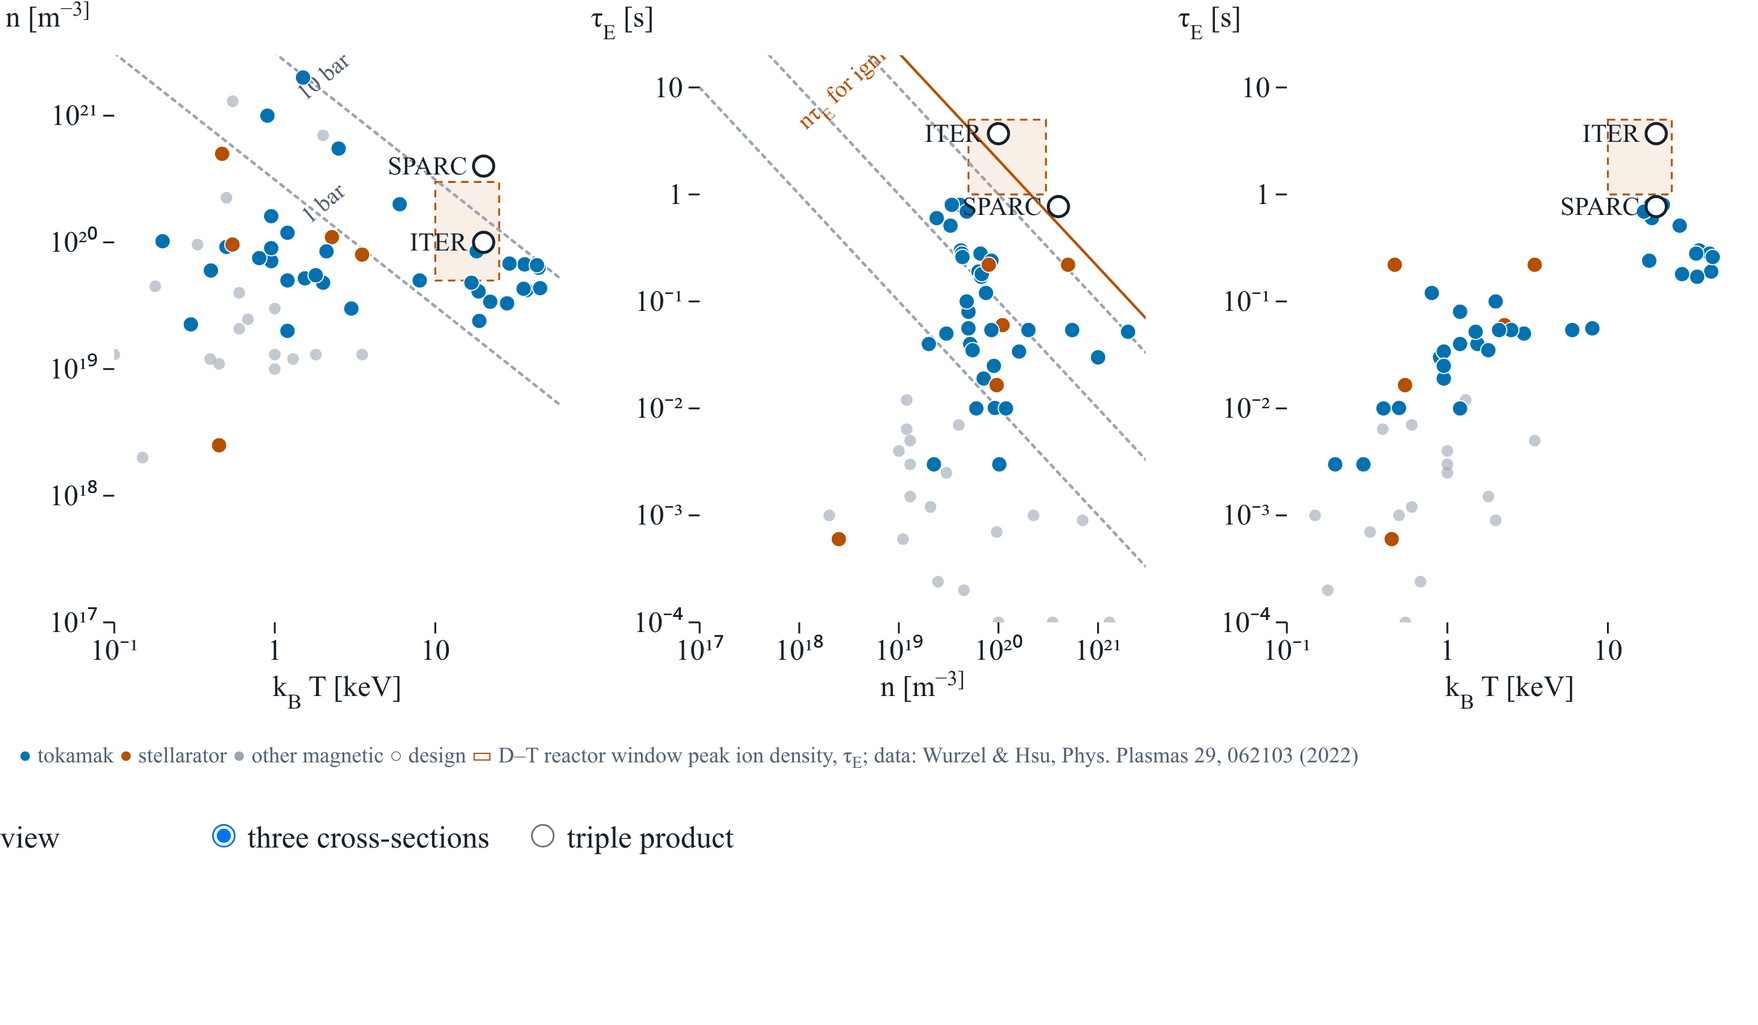
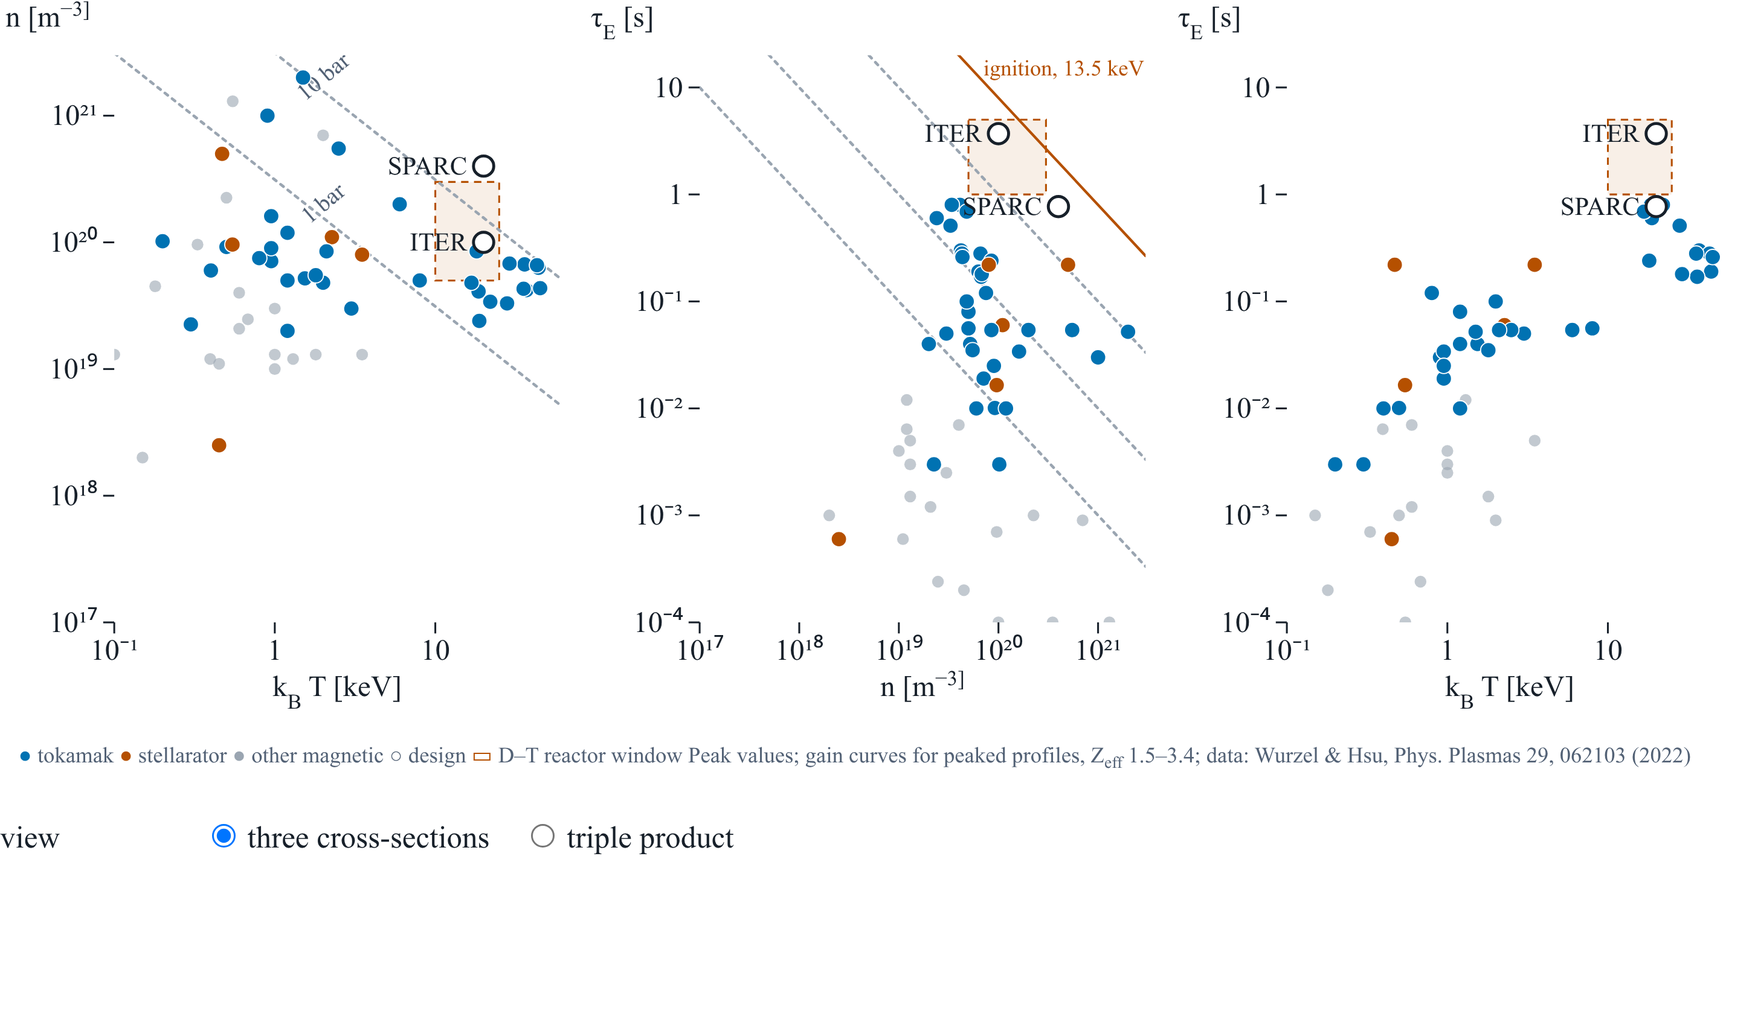
Decks 02 and 04 after Lecture 4; machine widget in peak values
Lecture 4 (3 November) derived the reaction rate on the board and called the
section 2.20 derivation pages too complicated; the deck keeps reactivity,
summary and solar core, and drops the eleven derivation and animation pages.
Deck 04 drops the four pages the lecture never showed (engineering gain,
Q = 10 power flow, what is optimised, quasineutrality and dilution).

The machine widget plotted Wurzel & Hsu peak values against flat-profile
gain curves, which put the 1991 JET and 1998 JT-60U records above Q = 1.
Its curves now follow their Eq. (45) in peak values (peaked T, broad n,
Z_eff 1.5-3.4): every record lies below Q = 1, ITER and SPARC between Q = 10
and ignition. peak_triple_product is checked against the JS model, the flat
0-D balance and the closed-form profile factors.

diff --git a/notebooks/fusion.js b/notebooks/fusion.js
@@ -109,6 +109,28 @@ export function tripleProduct(rx, t, q = Infinity, zeff = 0) {
   return net > 0 ? 12 * t * t * KEV / net : Infinity;
 }
 
+// Wurzel & Hsu (2022) Eqs. (38)-(40): profile factors for n, T ~ (1 - x^2)^nu; same
+// midpoint rule in s = x^2 as ch04_power_balance.profile_factors.
+export function profileFactors(rx, t0, nuN = 0.2, nuT = 3, points = 400) {
+  let sum = 0;
+  for (let i = 0; i < points; i++) {
+    const s = (i + 0.5) / points, ts = t0 * (1 - s) ** nuT;
+    if (ts >= 0.2) sum += (1 - s) ** (2 * nuN) * reactivity(rx, "DT", ts);
+  }
+  return {kappa: 1 / (1 + nuN + nuT), F: sum / points / reactivity(rx, "DT", t0), B: 2 / (4 * nuN + nuT + 2)};
+}
+
+// Wurzel & Hsu (2022) Eq. (45): n_i0 T_i0 tau_E for gain q in peak values, with the
+// profiles and impurities of their magnetic-confinement contours.
+export function peakTripleProduct(rx, t0, q = Infinity,
+    {zeff = 1.5, zbar = 1.2, etaAbs = 0.9, nuN = 0.2, nuT = 3} = {}) {
+  const lam = profileFactors(rx, t0, nuN, nuT);
+  const gain = Number.isFinite(q) ? etaAbs * E_FUS / q : 0;
+  const net = lam.F * reactivity(rx, "DT", t0) * (E_ALPHA + gain) / 4 * KEV
+    - lam.B * C_B * zeff * zbar * zbar * Math.sqrt(t0);
+  return net > 0 ? 1.5 * lam.kappa * (1 + zbar) * t0 * t0 * KEV / net : Infinity;
+}
+
 export function fAlpha(q) {
   return Number.isFinite(q) ? q / (q + E_FUS / E_ALPHA) : 1;
 }

diff --git a/tests/test_notebooks.py b/tests/test_notebooks.py
@@ -45,6 +45,10 @@ out.ignBrems = T.map(t => m.tripleProduct(rx, t, Infinity, 1));
 out.q5 = T.map(t => m.tripleProduct(rx, t, 5));
 out.zeff2 = T.map(t => m.tripleProduct(rx, t, 10, 2));
 out.he5 = T.map(t => m.ignitionDiluted(rx, t, [[2, 0.05]]));
+out.peak = T.map(t => m.peakTripleProduct(rx, t));
+out.peakQ1 = T.map(t => m.peakTripleProduct(rx, t, 1, {zeff: 3.4}));
+out.peakFlat = T.map(t => m.peakTripleProduct(rx, t, 5, {zeff: 1, zbar: 1, etaAbs: 1, nuN: 0, nuT: 0}));
+out.lam = m.profileFactors(rx, 20, 1, 1);
 out.w = m.dilution([[74, 1e-3]]);
 out.fa = [1, 5, 10].map(m.fAlpha);
 out.qeng = [m.qEng(5.25, 0.4, 0.4), m.qEng(11.5, 0.4, 0.4)];
@@ -115,6 +119,25 @@ def test_power_balance(js):
     net = sv * (pb.E_ALPHA + pb.E_FUS / 10) * rx.KEV - 8 * pb.C_B * np.sqrt(t)
     ref = np.where(net > 0, 12 * t**2 * rx.KEV / np.where(net > 0, net, 1), np.inf)
     assert np.allclose(arr(js["zeff2"]), ref, rtol=1e-12)
+
+
+def test_peak_triple_product(js):
+    t = np.array(TEMPS)
+    finite = lambda v: np.array([np.inf if x is None else x for x in v], float)
+    assert np.allclose(finite(js["peak"]), [pb.peak_triple_product(x) for x in t], rtol=1e-12)
+    assert np.allclose(finite(js["peakQ1"]), [pb.peak_triple_product(x, 1.0, z_eff=3.4) for x in t],
+                       rtol=1e-12)
+    # Flat profiles, pure fuel, full absorption: Wurzel & Hsu Eq. (45) is the 0-D balance.
+    assert np.allclose(finite(js["peakFlat"]), pb.triple_product(t, 5.0, brems=True), rtol=1e-12)
+    # Parabolic profiles: closed forms of Eqs. (39)-(40).
+    assert js["lam"]["kappa"] == pytest.approx(1 / 3) and js["lam"]["B"] == pytest.approx(2 / 7)
+
+
+def test_peak_values_put_record_shots_below_breakeven():
+    """Peak-value records against flat-profile curves overstate the gain (Wurzel & Hsu 2022)."""
+    jet_1991 = (18.6, 4.1e19 * 0.8 * 18.6)   # shot 26087: T_i0 [keV], n_i0 T_i0 tau_E* [keV s m^-3]
+    assert jet_1991[1] > pb.triple_product(jet_1991[0], 1.0)
+    assert jet_1991[1] < pb.peak_triple_product(jet_1991[0], 1.0)
 
 
 def test_dilution_and_gain(js):

diff --git a/derivations/chapters/ch04_power_balance.py b/derivations/chapters/ch04_power_balance.py
@@ -57,6 +57,34 @@ def triple_product(t, q=np.inf, brems=False):
     return out
 
 
+def profile_factors(t0, nu_n=0.2, nu_t=3.0, points=400):
+    """Wurzel & Hsu (2022) Eqs. (38)-(40) for n, T proportional to (1 - x^2)^nu, x = r/a.
+
+    Returns (lambda_kappa, lambda_F, lambda_B): stored energy, D-T fusion power and
+    bremsstrahlung relative to their values at the peak density and temperature.
+    lambda_F is a midpoint rule in s = x^2; below 0.2 keV the reactivity counts as zero.
+    """
+    s = (np.arange(points) + 0.5) / points
+    ts = t0 * (1 - s) ** nu_t
+    sv = np.where(ts >= 0.2, bosch_hale("DT", np.maximum(ts, 0.2)), 0.0)
+    lam_f = np.sum((1 - s) ** (2 * nu_n) * sv) / points / bosch_hale("DT", t0)
+    return 1 / (1 + nu_n + nu_t), lam_f, 2 / (4 * nu_n + nu_t + 2)
+
+
+def peak_triple_product(t0, q=np.inf, z_eff=1.5, z_bar=1.2, eta_abs=0.9, nu_n=0.2, nu_t=3.0):
+    """Required n_i0 T_i0 tau_E in keV s m^-3 at peak ion temperature t0 (keV).
+
+    Wurzel & Hsu, Phys. Plasmas 29, 062103 (2022), Eq. (45): the gain-Q balance in
+    peak values, for the profiles and impurities (Z_eff, Z_bar = n_e/n_i) of their
+    magnetic-confinement contours; eta_abs is the absorbed fraction of heating power.
+    """
+    lam_k, lam_f, lam_b = profile_factors(t0, nu_n, nu_t)
+    gain = 0.0 if np.isinf(q) else eta_abs * E_FUS / q
+    heat = lam_f * bosch_hale("DT", t0) * (E_ALPHA + gain) / 4 * KEV
+    net = heat - lam_b * C_B * z_eff * z_bar**2 * np.sqrt(t0)
+    return 1.5 * lam_k * (1 + z_bar) * t0**2 * KEV / net if net > 0 else np.inf
+
+
 def ideal_ignition_temperature(z_eff=1.0):
     """T (keV) where alpha heating equals bremsstrahlung, 50:50 D-T; independent of n."""
     tt = np.linspace(2, 20, 180001)

diff --git a/slides/04-power-balance.md b/slides/04-power-balance.md
@@ -38,20 +38,20 @@ P_heat or P_aux (older decks) are not used.
 | 6 | 4.4 Power balance with gain (`alpha_fraction`) | One balance, P_ext + P_α = P_loss, with P_ext = P_fus/Q gives every Q curve. Table: breakeven Q = 1 (f_α = 1/6), burning plasma Q = 5 (alphas supply half the heating), ignition Q → ∞. Plot: f_α saturates; at Q = 10 the alphas already supply two thirds of the heating. |
 | 7 | Triple product | Multiply by T; ⟨σv⟩ ≈ 1.1·10⁻²⁴ T² m³/s near 10–20 keV makes n T τ_E independent of T: 3.1·10²¹, exact minimum 2.7·10²¹ keV s m⁻³ at 13.5 keV. Factor 2: n k_BT τ_E = 4.4·10⁵ Pa s, while pτ_E = 2nk_BTτ_E ≈ 9 bar s; quote bar·s only with pτ_E. |
 | 8 | Lawson plane (`lawson_plane`) | Minimum near 14 keV for every Q; bremsstrahlung wall at 4.3 keV; right panel: Q = 10 already needs two thirds of the ignition value. |
-| 9 | 4.5 Lawson 1957 and self-heating | Same balance, two closures. Lawson: all output (fusion, bremsstrahlung, heat) through a converter with η = 1/3 and back as heating; useful when P_fus ≥ 2P_loss. Self-heating: the alphas stay inside, neutrons leave; ignition is P_α ≥ P_loss. The triple product is not "Lawson's criterion" in its 1957 form (2025 notebook). **Bank account** for Lawson's break-even, if time. Neutrons take the long path wall → turbine → heater: inefficient twice. |
-| 10 | Engineering gain (`q_eng`) | Bookkeeping: heat P_fus + P_ext at η_th, heating bought at η_aux. Net electricity only above Q = 5.25 (0.4 × 0.4); Q ≈ 11.5 gives Q_eng = 1, half the gross power recirculated. So Q ≈ 10 is the minimum for a plant, not "technical breakeven". Wurzel & Hsu: Q η_aux ≳ 10, i.e. Q ≳ 20 for magnetic plants. |
-| 11 | Power flow at Q = 10 (`power_flow`) | 500 MW fusion, 50 MW heating, 101 MW alphas, 399 MW neutrons; f_α = 2/3. Exercise: Q_eng for this plant. |
-| 12 | 4.6 Fixed pressure (`fixed_pressure`) | Pressure, not density, is what the magnet holds: p = 2nk_BT, so p_fus ∝ p²⟨σv⟩/T² — the 13.5 keV optimum of section 2.20 is a fixed-pressure optimum. With β: P_fus ∝ β²B⁴V, doubling B gives 16 times the power density. Density limit as one line (Greenwald, empirical); scaling laws come with transport. |
-| 13 | 4.7 Density and confinement time (`n_tau_plane`) | Same n τ_E, very different routes. Magnetic: 10²⁰ m⁻³ for about a second ("ultra-high vacuum in density, atmospheric in pressure"). Inertial: 10³⁰–10³¹ m⁻³ for 0.1 ns, held by its own inertia; the H-bomb is inertial too, driven by fission (no public data, not drawn). Sun: p–p, not D–T, and confined by gravity for ~10⁷ years. Lines are constant n τ only: whether a point is near Q = 1 depends on its temperature, which this plane hides (Alcator C: n τ ≈ 10²⁰ s m⁻³ at 1.5 keV, far below Q = 1); for that, go back to the Lawson plane. Points are measured peak values: compare orders of magnitude only. NIF's December 2022 shot reached target gain 1.5, not 10; JET's 1997 record was below Q = 1. |
-| 14 | 4.8 Which temperature is optimal? | Same balance, three objectives: fixed n and τ_E → max ⟨σv⟩/T at 25.7 keV; fixed p and τ_E → max ⟨σv⟩/T² at 13.5 keV (the triple product is pτ_E/2); max P_fus at fixed n → 66.7 keV. A variable change moves a plotted minimum, not the physics. Local power law m = d ln⟨σv⟩/d ln T: n T τ_E ∝ T^(2−m), m = 2 at the minimum, hence broad (±10 % over 9.7–19 keV). |
-| 15 | Widget `limits` | Fixed τ_E: colour = τ_E needed for Q; density line n_max, pressure line p_max = β_max B²/2μ₀. Optimum = crossing T× = p_max/2n_max clamped to [13.5, 25.7] keV; stellarator toggle drops the density limit → 13.5 keV. Defaults B = 6 T, β = 4.5 %, n_max = 10²⁰: 20 keV, 1.55 s. |
-| 16 | Limits and confinement scaling | Tokamak T× ≈ 0.39 β_N a B/f_GW keV (I_p cancels): ITER 8.8 keV, EU-DEMO 13.8 keV. IPB98(y,2) and ISS04 with coefficients; τ_E falls with heating power, so at the β limit τ_E ∝ T^−1.3 and the optimum moves to 6–9 keV. |
-| 17 | Widget `popcon` | 0-D operating space with parabolic profiles, 85 % fuel, bremsstrahlung, τ_E = H·IPB98 or H·ISS04 solved with P = W/τ_E. Presets ITER, SPARC, ARC, W7-X, HELIAS 5-B; B and H sliders. Best point sits on a limit near 6–9 keV; the region of high Q is broad. Without core radiation ITER comes out ignited at H = 1; H = 0.85 gives Q ≈ 15, H = 0.8 gives Q ≈ 9 (best point near 5–6 keV on the Greenwald line) — say this. |
-| 18 | Widget `machines` | Wurzel & Hsu records in n–T, n–τ_E, T–τ_E and the Lawson plane; no present machine reaches the reactor window in all three at once; ITER and SPARC design points. |
-| 19 | What is really optimised? | Plasma → limits → technology → plant; COE = (capital × annuity + operation)/(P_net × availability × 8760 h). Trade-offs of B, n, T, size; broad optimum, the choice is technology and cost. Outlook: β and density limits (Ch. 6), τ_E scaling (Ch. 7), plants (Ch. 10). |
-| 20 | 4.9 Bremsstrahlung and ideal ignition (`alpha_brems`) | Electrons deflected by ions radiate; unavoidable. ∝ n_e² like fusion, so n² cancels: below 4.3 keV no density helps. Lawson's first insight. Units trap: the NRL constant 1.69·10⁻³² W cm³ eV^(−1/2) needs T in eV; with T in keV use 5.34·10⁻³⁷ W m³ keV^(−1/2) (2025 notes mixed them). |
-| 21 | 4.10 Quasineutrality and dilution | Draw one W nucleus taking 74 electrons: at fixed n_e (density limit) it displaces 74 fuel ions. 0.1 % W: 7.4 % fewer fuel ions, 14 % less fusion power (not "74 %"). Tungsten in a reactor core is only partly ionised and line radiation dominates its loss; say this, no formula. **Ash stove:** helium is the ash of the burn; like ash in a wood stove it chokes the fire unless removed. Same mechanism with Z = 2. |
-| 22 | Helium ash (`impurity_dilution`) | 5 % He raises the ignition triple product by about a quarter, 10 % by about 60 %. Right: one universal curve (1 − Zc)² for any impurity at fixed n_e. |
+| 9 | 4.5 Lawson 1957 and self-heating | Same balance, two closures. Lawson: all output (fusion, bremsstrahlung, heat) through a converter with η = 1/3 and back as heating; useful when P_fus ≥ 2P_loss. Self-heating: the alphas stay inside, neutrons leave; ignition is P_α ≥ P_loss. The triple product is not "Lawson's criterion" in its 1957 form (2025 notebook). **Bank account** for Lawson's break-even, if time. Neutrons take the long path wall → turbine → heater: inefficient twice. Spoken, no page: with η_th = η_aux = 0.4, Q_eng = η_th η_aux (Q + 1) − 1, so net electricity needs Q > 5.25 and Q ≈ 10 gives Q_eng ≈ 1. |
+| 10 | 4.6 Fixed pressure (`fixed_pressure`) | Pressure, not density, is what the magnet holds: p = 2nk_BT, so p_fus ∝ p²⟨σv⟩/T² — the 13.5 keV optimum of section 2.20 is a fixed-pressure optimum. With β: P_fus ∝ β²B⁴V, doubling B gives 16 times the power density. Density limit as one line (Greenwald, empirical); scaling laws come with transport. |
+| 11 | 4.7 Density and confinement time (`n_tau_plane`) | Same n τ_E, very different routes. Magnetic: 10²⁰ m⁻³ for about a second ("ultra-high vacuum in density, atmospheric in pressure"). Inertial: 10³⁰–10³¹ m⁻³ for 0.1 ns, held by its own inertia; the H-bomb is inertial too, driven by fission (no public data, not drawn). Sun: p–p, not D–T, and confined by gravity for ~10⁷ years. Lines are constant n τ only: whether a point is near Q = 1 depends on its temperature, which this plane hides (Alcator C: n τ ≈ 10²⁰ s m⁻³ at 1.5 keV, far below Q = 1); for that, go back to the Lawson plane. Points are measured peak values: compare orders of magnitude only. NIF's December 2022 shot reached target gain 1.5, not 10; JET's 1997 record was below Q = 1. |
+| 12 | 4.8 Which temperature is optimal? | Same balance, three objectives: fixed n and τ_E → max ⟨σv⟩/T at 25.7 keV; fixed p and τ_E → max ⟨σv⟩/T² at 13.5 keV (the triple product is pτ_E/2); max P_fus at fixed n → 66.7 keV. A variable change moves a plotted minimum, not the physics. Local power law m = d ln⟨σv⟩/d ln T: n T τ_E ∝ T^(2−m), m = 2 at the minimum, hence broad (±10 % over 9.7–19 keV). |
+| 13 | Widget `limits` | Fixed τ_E: colour = τ_E needed for Q; density line n_max, pressure line p_max = β_max B²/2μ₀. Optimum = crossing T× = p_max/2n_max clamped to [13.5, 25.7] keV; stellarator toggle drops the density limit → 13.5 keV. Defaults B = 6 T, β = 4.5 %, n_max = 10²⁰: 20 keV, 1.55 s. |
+| 14 | Limits and confinement scaling | Tokamak T× ≈ 0.39 β_N a B/f_GW keV (I_p cancels): ITER 8.8 keV, EU-DEMO 13.8 keV. IPB98(y,2) and ISS04 with coefficients; τ_E falls with heating power, so at the β limit τ_E ∝ T^−1.3 and the optimum moves to 6–9 keV. |
+| 15 | Widget `popcon` | 0-D operating space with parabolic profiles, 85 % fuel, bremsstrahlung, τ_E = H·IPB98 or H·ISS04 solved with P = W/τ_E. Presets ITER, SPARC, ARC, W7-X, HELIAS 5-B; B and H sliders. Best point sits on a limit near 6–9 keV; the region of high Q is broad. Without core radiation ITER comes out ignited at H = 1; H = 0.85 gives Q ≈ 15, H = 0.8 gives Q ≈ 9 (best point near 5–6 keV on the Greenwald line) — say this. |
+| 16 | Widget `machines` | Wurzel & Hsu records in n–T, n–τ_E, T–τ_E and the Lawson plane; no present machine reaches the reactor window in all three at once; ITER and SPARC design points. Q bands are in peak values like the data (Wurzel & Hsu Eq. 45: peaked T, broad n, Z_eff 1.5–3.4, fixed 2026-11-09 after Lecture 4): the JET 1991 and JT-60U records fall below Q = 1, not above; the ITER and SPARC design points lie in the Q ≈ 10 to ignition band. |
+| 17 | 4.9 Bremsstrahlung and ideal ignition (`alpha_brems`) | Electrons deflected by ions radiate; unavoidable. ∝ n_e² like fusion, so n² cancels: below 4.3 keV no density helps. Lawson's first insight. Units trap: the NRL constant 1.69·10⁻³² W cm³ eV^(−1/2) needs T in eV; with T in keV use 5.34·10⁻³⁷ W m³ keV^(−1/2) (2025 notes mixed them). |
+| 18 | 4.10 Helium ash (`impurity_dilution`) | 5 % He raises the ignition triple product by about a quarter, 10 % by about 60 %. Right: one universal curve (1 − Zc)² for any impurity at fixed n_e. |
+
+Engineering gain, the Q = 10 power flow, "What is really optimised?" and
+"Quasineutrality and dilution" were removed on 2026-11-09: Lecture 4
+(2026-11-03) never showed them; they remain in Git history.
 
 ## Sources and checks
 

diff --git a/slides/02-fusion-reactions.md b/slides/02-fusion-reactions.md
@@ -16,9 +16,7 @@ E is the centre-of-mass energy, m = m₁m₂/(m₁ + m₂) the reduced mass and
 M = m₁ + m₂ the total mass (page 3), σ(E) = (S/E) e^(−√(E_G/E)) with the
 S factor S and the Gamow energy E_G = 2mc²(παZ₁Z₂)² (pages 12–16), k_BT the
 ion temperature. The animations and `04-power-balance-visuals.md` write the
-reduced mass m_r; page 28 names both. F_μ is the velocity Maxwellian of mass
-μ, f_M(E) the energy distribution (maximum at k_BT/2), K the kernel per
-d ln E, u = ln E and s = ln k_BT.
+reduced mass m_r.
 
 ## Pages
 
@@ -28,20 +26,16 @@ d ln E, u = ln E and s = ln k_BT.
 | 3–9 | Two-body problem, head-on collision, Rutherford, classical turning point and cross section; Coulomb-collision animation | Open Lecture 4 with the contact-distance correction (PLAN.md) |
 | 10–16 | Quantum ballpark, WKB slices, Gamow tunnelling, measuring σ, S factor, tunnelling alone, actual σ | — |
 | 17–27 | Measured S, ⁵He resonance, which force, S and R, force ranges, computing S, p–p from wave functions, pionless EFT, comparison, p–p chain (moved from the former Chapter 3 deck), summary diagram | Taught in Lecture 3 |
-| 28 | From cross section to rate (section 2.20 starts) | Beam on target: cylinder of length v Δt, R = n₁n₂σv. Plasma: average over both distributions. Identical particles: count pairs with four deuterons (D1 with 2, 3, 4; D2 with 3, 4; …): N(N−1)/2 ≈ N²/2, so 1/(1 + δ₁₂); forgetting it costs a factor 2 in a pure-D plasma. ⟨σv⟩ is an average of σ times v, not of σ times n. |
-| 29 | Relative velocity | Same T for both species. Expand m₁v₁² + m₂v₂²: no mixed V·g term, so no angles; Jacobian 1. The relative velocity is Maxwellian with m: a convolution, variances add. |
-| 30 | Animation `relative-velocity` | f_T slides across f_D, the overlap is shaded, its area f_rel(g) is traced over the reduced-mass Maxwellian. |
-| 31 | Convolution and kernel smoothing | Define (f ∗ K)(x): shift, multiply, integrate; correlation = unflipped kernel. A kernel of width h removes structure narrower than h (sketch: spike smoothed). Two uses: (a) relative velocity, a true convolution in v; (b) reactivity, a correlation in ln E with a fixed kernel. Optional: Plasma kernel-smoothing animation (linked on the page). |
-| 32 | Maxwell average | Integrate out V, then E = mg²/2; carry the prefactor through to (8/(πm))^(1/2)(k_BT)^(−3/2), which no earlier lecture reached. **Log-energy point:** per d ln E the weight (2/√π)(E/k_BT)^(3/2) e^(−E/k_BT) depends on ln E − ln k_BT only; T shifts one fixed kernel along the ln E axis. On a linear E axis the weight widens with T, so there it is a T-dependent average, not a convolution in E. |
-| 33 | Animation `maxwell-average` | Kernel slides rigidly on the log axis under σv; the ⁵He resonance is integrated away into a smooth ⟨σv⟩(T). Left panel σv(E) is the mono-energetic beam value (delta distribution), right panel ⟨σv⟩(T) the Maxwellian one: compare the two curves at 10 keV and at their maxima. D–T ⟨σv⟩ peaks near 65–70 keV, not at a few hundred keV. |
-| 34 | From cross section to reactivity (plot `reaction_product`) | D–T at 10 keV. Plot actual Bosch–Hale σ(E), Maxwell energy density f_M(E) (its √E comes from a spherical shell in 3D velocity space), and σ(E)v(E)f_M(E). The extra v ∝ √E is essential; the area under the third curve is ⟨σv⟩, not its height. f_M peaks at 5 keV, reaction contribution at about 35 keV (constant-S Gamow prediction 31 keV). |
-| 35 | Gamow peak | Insert σ; F(E) = E/k_BT + √(E_G/E); maximum E₀, depth τ, curvature, 1/e width Δ; Gaussian integral gives τ²e^(−τ). Since τ ∝ (k_BT)^(−1/3), this is the low-temperature form (k_BT)^(−2/3) exp(−c (k_BT)^(−1/3)) of the NRL Plasma Formulary fits: the fitted constants follow from E_G. D–T at 10 keV: E₀ ≈ 31 keV, Δ ≈ 41 keV, τ ≈ 9.3. |
-| 36 | Gamow window (plot `gamow_peak`) | One factor falls, one rises; pairs peak at k_BT/2 = 5 keV, reacting pairs near 31 keV. |
-| 37 | Animation `gamow-sweep` | E₀ moves from 11 to 102 keV as k_BT rises from 2 to 60 keV; peak height grows by almost five decades. |
-| 38 | Only the tail fuses (plot `tail_fuses`, ladder table) | 11 % of pairs, 73 % of reactions above 3k_BT. Let students compute the barrier temperature first: V(R) ≈ 0.44 MeV ≈ 5·10⁹ K. Table: k_BT needed for the D–T value 1.1·10⁻²² m³/s. Classical σ_cl: 450 keV with all pairs at 3/2 k_BT, 440 keV with a Maxwellian. Tunnelling σ: 15 keV and 10 keV. Tunnelling gains a factor of about 30 in temperature, the tail another 1.5. |
-| 39 | Reactivity (plot `reactivity`) | D–T two orders above the others at 10 keV; ⟨σv⟩/T² maximal at 13.5 keV. Lawson curve n T τ_E ∝ T²/⟨σv⟩ is this curve upside down (Chapter 4). Hotter is not safer below about 70 keV. |
-| 40 | Reaction rate: summary | Five steps and the τ²e^(−τ) result. |
-| 41 | Solar core (plot `gamow_peak_pp`), optional | k_BT ≈ 1.3 keV, E₀ ≈ 6 keV ≈ 4.6 k_BT; bridge to a later stars chapter, may be skipped. |
+| 28 | 2.20 Reactivity (plot `reactivity`) | D–T two orders above the others at 10 keV; ⟨σv⟩/T² maximal at 13.5 keV. Lawson curve n T τ_E ∝ T²/⟨σv⟩ is this curve upside down (Chapter 4). Hotter is not safer below about 70 keV. |
+| 29 | Reaction rate: summary | Five steps and the τ²e^(−τ) result. |
+| 30 | Solar core (plot `gamow_peak_pp`), optional | k_BT ≈ 1.3 keV, E₀ ≈ 6 keV ≈ 4.6 k_BT; bridge to a later stars chapter, may be skipped. |
+
+Section 2.20 is derived on the board (reaction rate per beam particle,
+Maxwell average, reactivity) and the deck keeps only its three result pages.
+Its eleven derivation pages (rate, relative velocity, kernel smoothing,
+Maxwell average, Gamow peak and window, tail) and their three animations were
+removed on 2026-11-09 after Lecture 4 (2026-11-03), where they proved too
+detailed for the live route; they remain in Git history.
 
 ## Sources and checks
 
